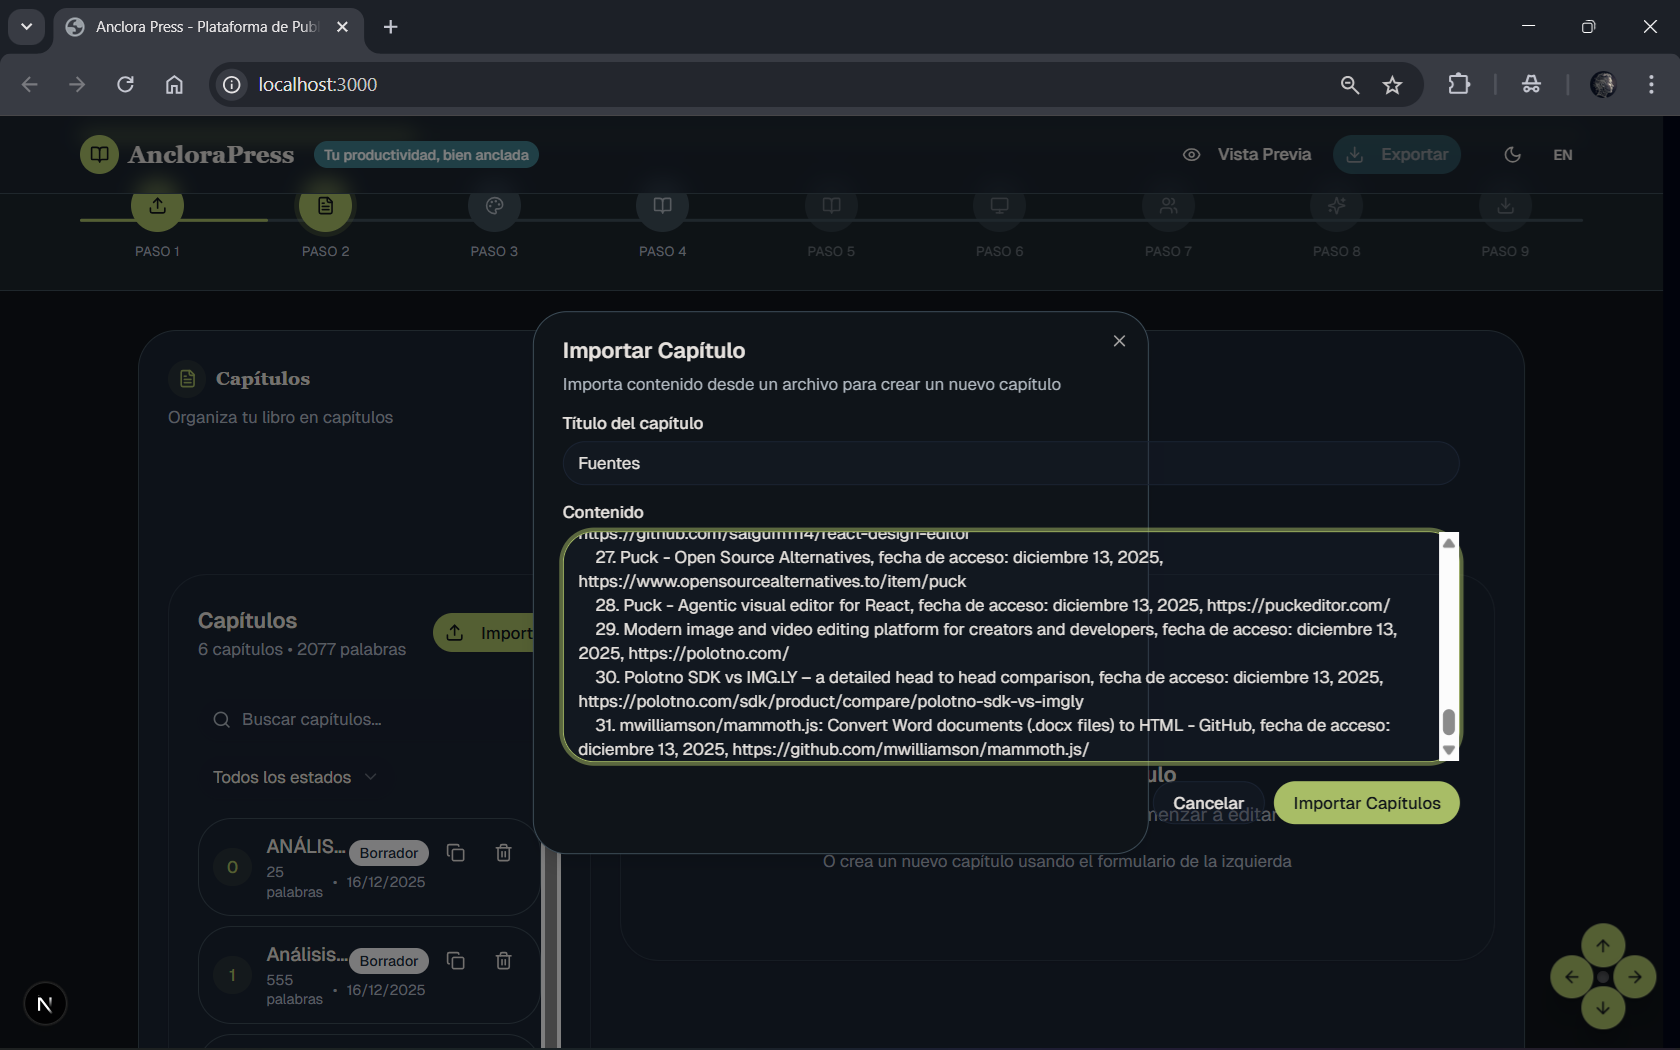
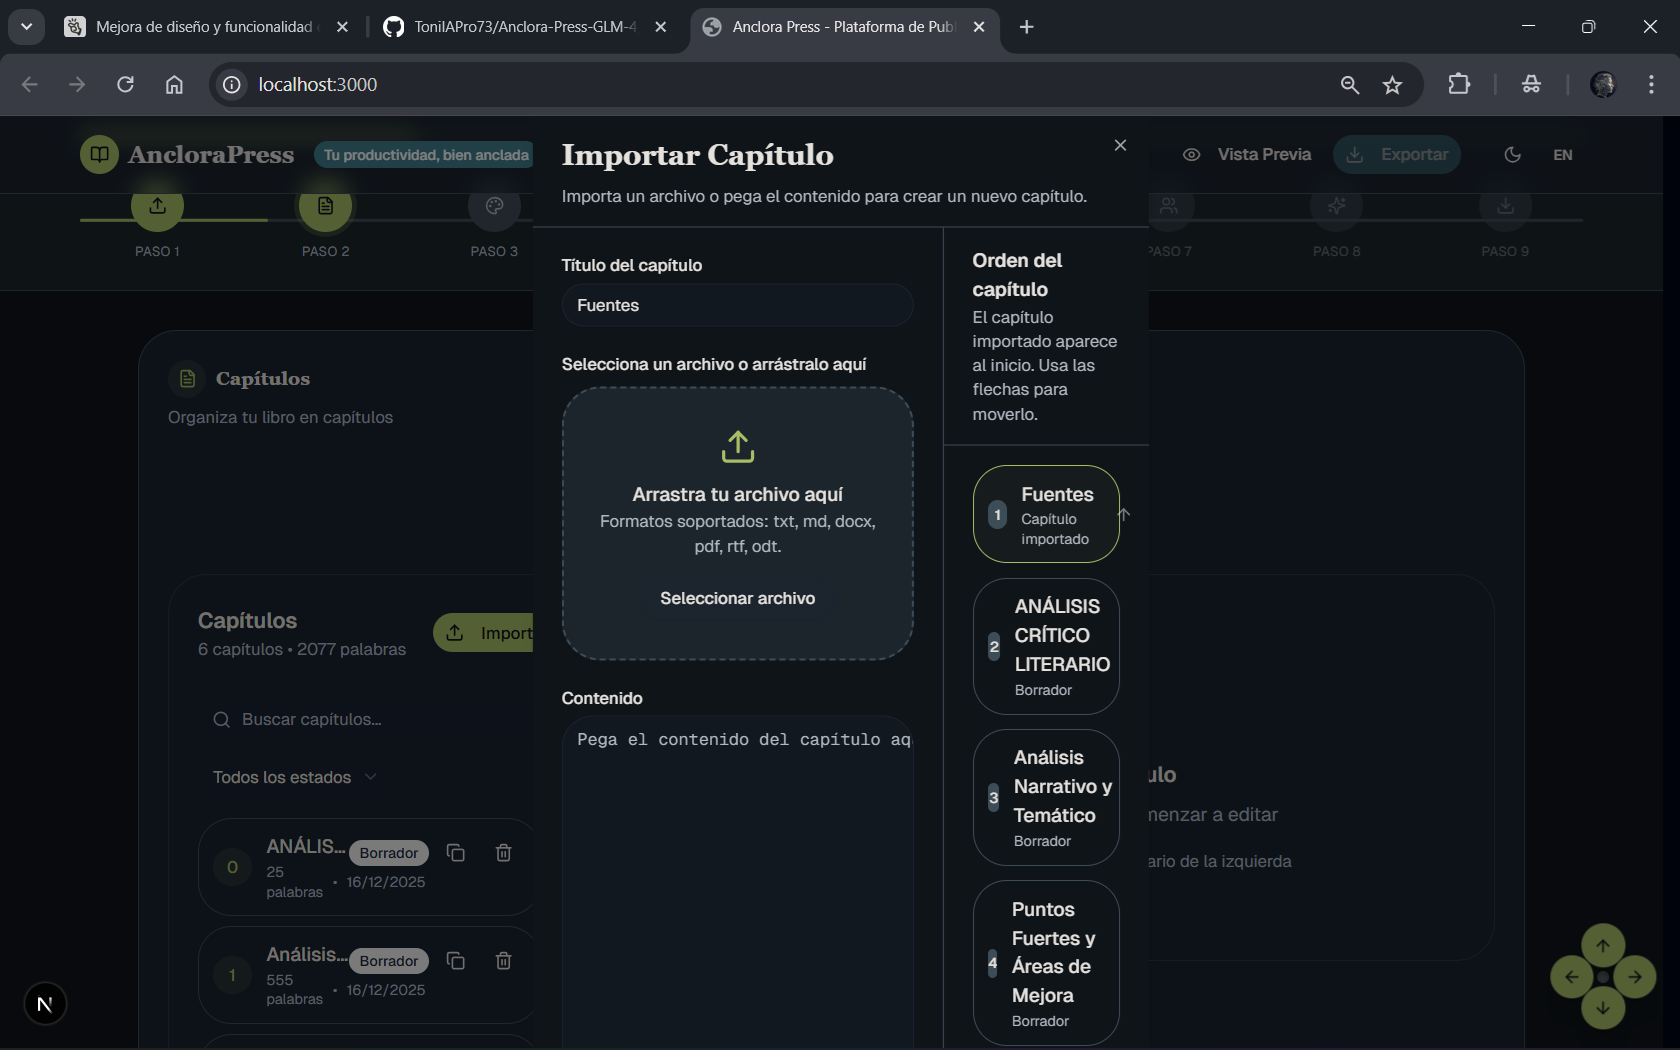
• - Enlarged the import modal so it now uses nearly the full viewport, gains rounded borders,     and centers within a max-width container (src/components/chapter-editor.tsx:371-386).     The inner grid was refactored to two clear panels with min-h-0 so each section can scroll     independently (src

diff --git a/src/components/chapter-editor.tsx b/src/components/chapter-editor.tsx
@@ -368,8 +368,8 @@ export default function ChapterEditor({
                       {mounted && t("chapter.import")}
                     </Button>
                   </DialogTrigger>
-                  <DialogContent className="max-w-none w-screen h-screen p-0 sm:rounded-none border-none bg-background">
-                    <div className="flex h-full flex-col">
+                  <DialogContent className="max-w-[95vw] w-full h-[90vh] p-0 sm:rounded-3xl border border-border bg-background overflow-hidden">
+                    <div className="flex h-full flex-col max-w-6xl mx-auto w-full">
                       <DialogHeader className="px-6 py-4 border-b border-border">
                         <DialogTitle className="text-2xl font-semibold font-serif">
                           {mounted && t("chapter.importDialog")}
@@ -381,10 +381,10 @@ export default function ChapterEditor({
                               : "Import a file or paste text to create a new chapter.")}
                         </DialogDescription>
                       </DialogHeader>
-                      <div className="flex-1 grid grid-cols-1 xl:grid-cols-3 divide-y xl:divide-y-0 xl:divide-x divide-border">
-                        <div className="xl:col-span-2 flex flex-col overflow-hidden">
+                      <div className="flex-1 grid grid-cols-1 xl:grid-cols-[2fr_1fr] divide-y xl:divide-y-0 xl:divide-x divide-border min-h-0">
+                        <div className="flex flex-col min-h-0">
                           <div className="flex-1 overflow-auto p-6 space-y-6">
-                            <div className="space-y-2">
+                            <div className="space-y-2 flex flex-col min-h-[320px]">
                               <Label htmlFor="import-title">
                                 {mounted && t("chapter.chapterTitle")}
                               </Label>
@@ -475,7 +475,7 @@ export default function ChapterEditor({
                                 }
                                 wrap="off"
                                 spellCheck={false}
-                                className="h-[360px] resize-none overflow-auto font-mono text-sm"
+                                className="flex-1 min-h-[260px] resize-none overflow-auto font-mono text-sm"
                                 style={{ whiteSpace: "pre", wordBreak: "normal" }}
                               />
                               {importError && (
@@ -484,7 +484,7 @@ export default function ChapterEditor({
                             </div>
                           </div>
                         </div>
-                        <div className="flex flex-col overflow-hidden">
+                        <div className="flex flex-col min-h-0 bg-card/30">
                           <div className="border-b border-border px-6 py-4">
                             <h4 className="font-semibold">
                               {mounted
